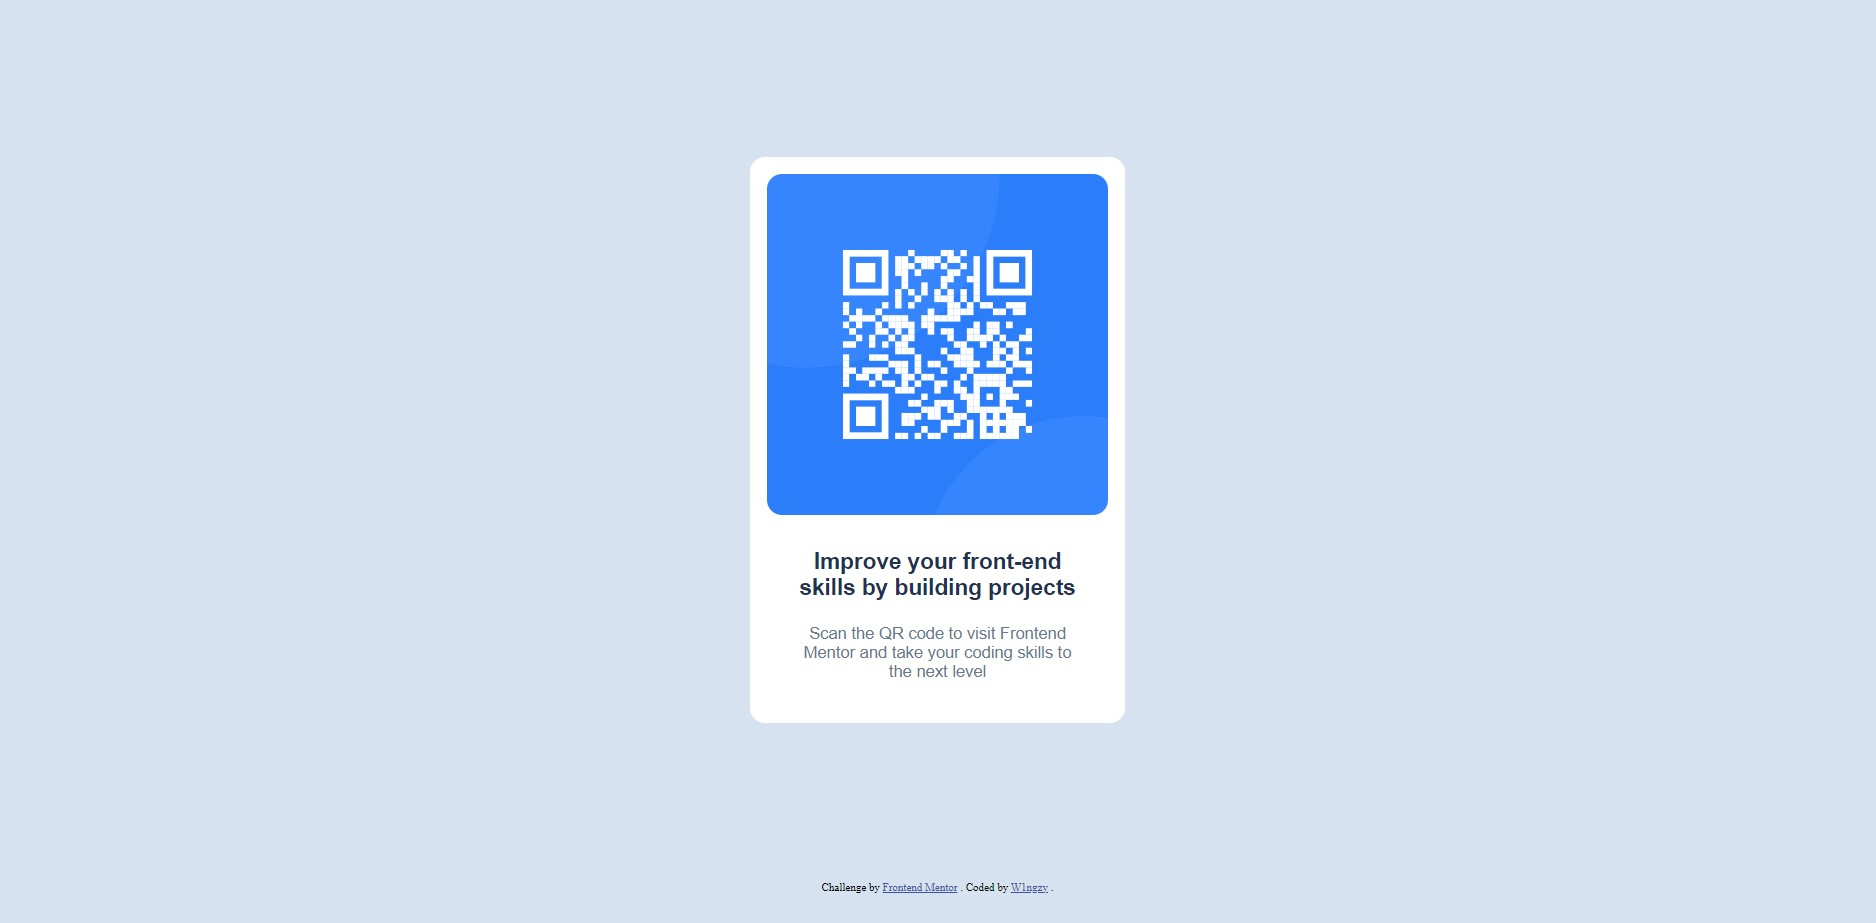
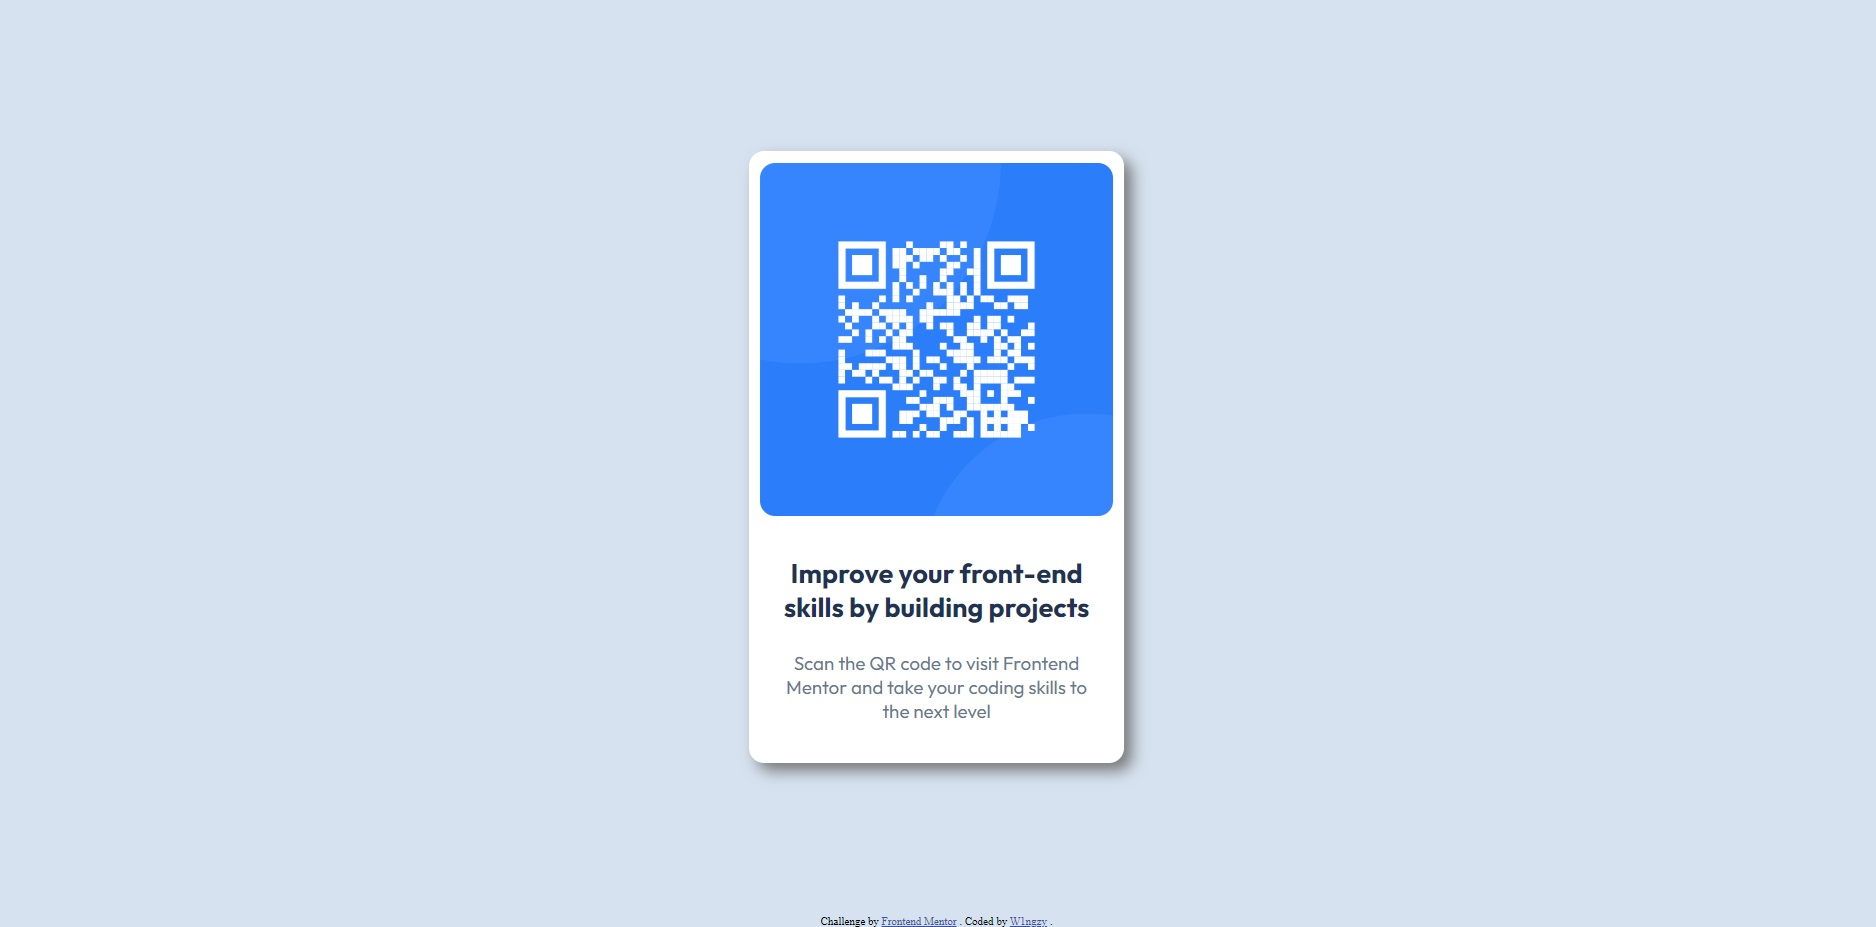
Finalizing css

Changed region(s): [[0.4019, 0.1517, 0.6183, 0.8494], [0.4328, 0.9404, 0.5565, 1.0]]

diff --git a/main.css b/main.css
@@ -1,16 +1,17 @@
+@import url("https://fonts.googleapis.com/css2?family=Outfit:wght@400;700&display=swap");
 :root {
 	--slate-300: hsl(212, 45%, 89%);
 	--slate-500: hsl(216, 15%, 48%);
 	--slate-900: hsl(218, 44%, 22%);
 	--white: hsl(0, 0%, 100%);
-	--font-size: 15px;
+	font-size: 15px;
 }
 * {
 	box-sizing: border-box;
 	margin: 0;
 	padding: 0;
 }
-@import url("https://fonts.googleapis.com/css2?family=Outfit:wght@400;700&display=swap");
+
 .outfit {
 	font-family: "Outfit", sans-serif;
 	font-optical-sizing: auto;
@@ -25,9 +26,9 @@
 }
 body {
 	background-color: var(--slate-300);
-	font-size: var(--font-size);
 }
 .attribution {
+	justify-self: flex-end;
 	font-size: 11px;
 	text-align: center;
 }
@@ -36,11 +37,13 @@ body {
 }
 
 .container {
-	height: 95vh;
+	height: 100vh;
 	width: 100vw;
+	position: relative;
 	display: flex;
+	flex-direction: column;
+	justify-content: space-between;
 	align-items: center;
-	justify-content: center;
 }
 .rounded {
 	border-radius: 1em;
@@ -49,11 +52,12 @@ body {
 	display: flex;
 	flex-direction: column;
 	align-items: center;
+	justify-content: center;
 	background-color: var(--white);
-	padding: 1.15em;
-	height: auto;
-	max-width: 100%;
-	margin: 1em;
+	padding: 0.75em;
+	margin: auto 0;
+	box-shadow: 0.5rem 0.5rem 1rem #777;
+	max-width: 20%;
 }
 
 .card-img {
@@ -63,27 +67,64 @@ body {
 
 .card-heading {
 	color: var(--slate-900);
-	font-size: 1.6em;
+	font-size: clamp(1.15em, 1.5vw, 1.8em);
+	min-width: 20ch;
 	text-align: center;
-	width: 22ch;
 	margin-top: 1.5em;
 	margin-bottom: 1em;
 }
 
 .card-text {
 	color: var(--slate-500);
-	font-size: 1.1em;
+	font-size: clamp(0.82em, 1vw, 1.25em);
+	min-width: 25ch;
 	text-align: center;
-	width: 30ch;
 	margin-bottom: 1.5em;
 }
 
-@media (min-width: 768px) {
+@media (max-width: 576px) {
 	.card {
-		max-width: 20%;
+		max-width: 80%;
 	}
 	.card-heading {
-		width: 24ch;
-		font-size: 1.5em;
+		font-size: 2em;
+		min-width: 0;
+	}
+	.card-text {
+		font-size: 1.4em;
+		min-width: 0;
+	}
+}
+
+@media (max-width: 576px) {
+	.card-heading {
+		font-size: clamp(1.5em, 5vw, 2em);
+	}
+	.card-text {
+		font-size: clamp(1em, 3vw, 1.25em);
+	}
+}
+
+@media (min-width: 576px) and (max-width: 768px) {
+	.card {
+		max-width: 45%;
+	}
+	.card-heading {
+		font-size: clamp(1.2em, 3vw, 1.5em);
+	}
+	.card-text {
+		font-size: clamp(0.88em, 2vw, 1.09em);
+	}
+}
+
+@media (min-width: 768px) and (max-width: 1200px) {
+	.card {
+		max-width: 40%;
+	}
+	.card-heading {
+		font-size: clamp(1.5em, 3vw, 1.8em);
+	}
+	.card-text {
+		font-size: clamp(1em, 2vw, 1.25em);
 	}
 }

diff --git a/index.html b/index.html
@@ -11,16 +11,26 @@
 		<div class="container">
 			<div class="card rounded">
 				<img class="card-img rounded" src="./images/image-qr-code.png" alt="qr code for front-end mentor" />
-				<div class="card-heading outfit-bold">Improve your front-end skills by building projects</div>
-				<p class="card-text outfit">Scan the QR code to visit Frontend Mentor and take your coding skills to the next level</p>
+				<div class="card-heading outfit-bold">
+					Improve your front-end
+					<br />
+					skills by building projects
+				</div>
+				<p class="card-text outfit">
+					Scan the QR code to visit Frontend
+					<br />
+					Mentor and take your coding skills to
+					<br />
+					the next level
+				</p>
 			</div>
-		</div>
-		<div class="attribution">
-			Challenge by
-			<a href="https://www.frontendmentor.io?ref=challenge" target="_blank">Frontend Mentor</a>
-			. Coded by
-			<a href="https://www.frontendmentor.io/profile/W1ngzy">W1ngzy</a>
-			.
+			<div class="attribution">
+				Challenge by
+				<a href="https://www.frontendmentor.io?ref=challenge" target="_blank">Frontend Mentor</a>
+				. Coded by
+				<a href="https://www.frontendmentor.io/profile/W1ngzy">W1ngzy</a>
+				.
+			</div>
 		</div>
 	</body>
 </html>
